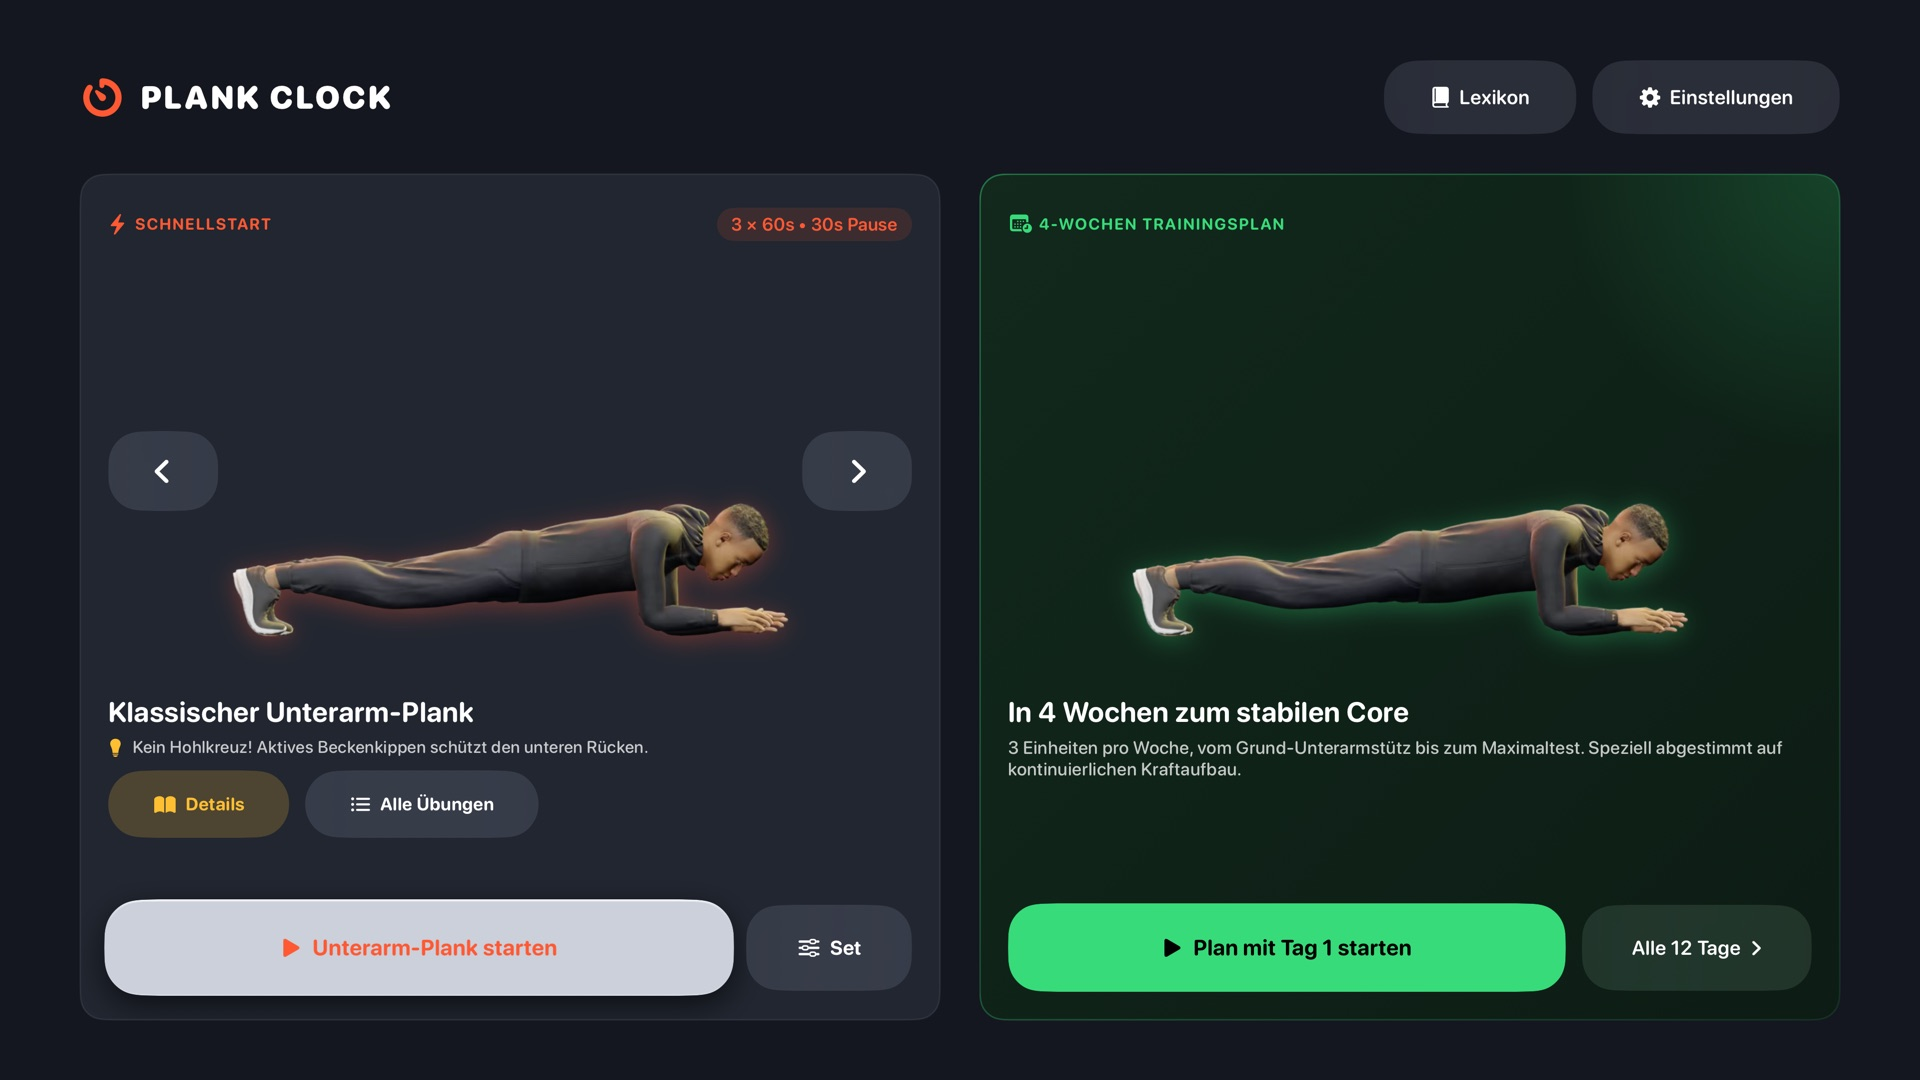
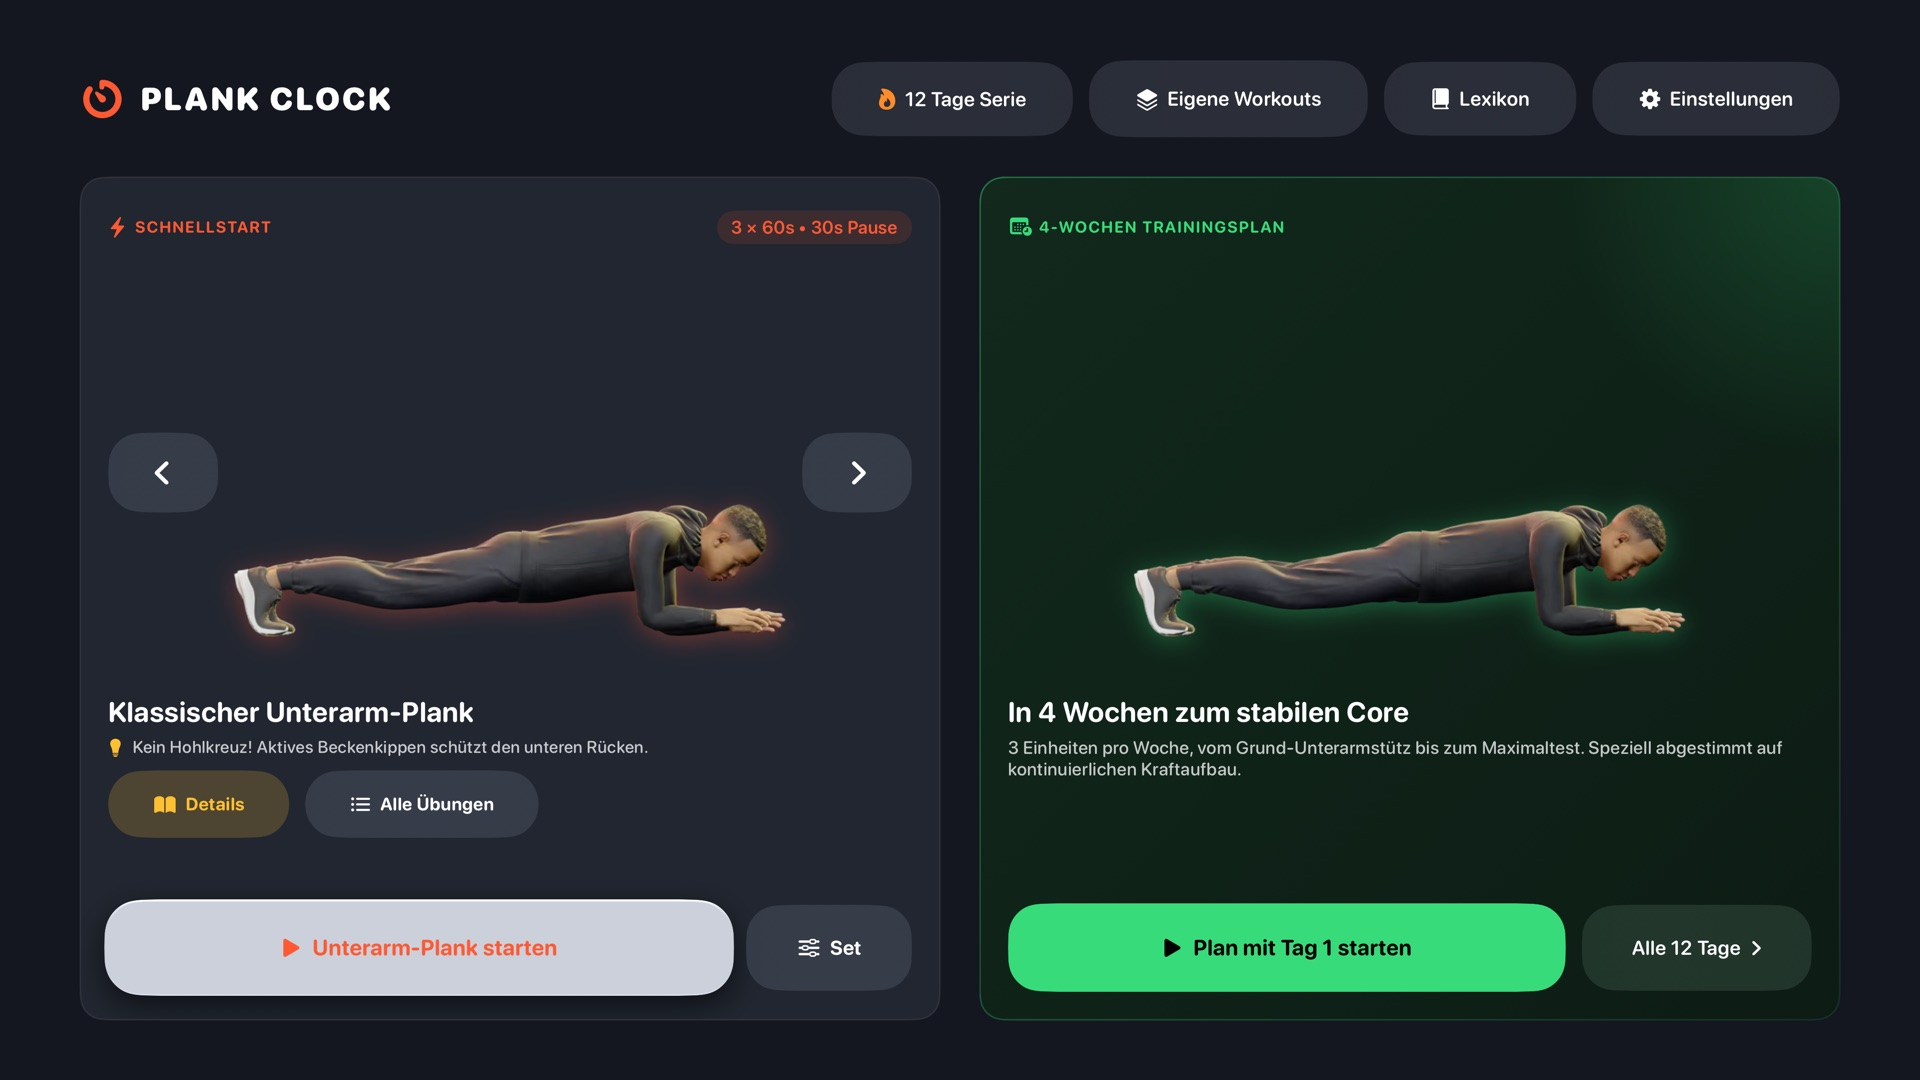
feat(plank-clock): Apple TV 1.2 mit eigenen Workouts und Serie; Datenschutz ergänzt
- Apple-TV-Abschnitt: sechs neue Screenshots (Startseite, Workout, eigene
  Workouts, Editor, Serie & Badges, Plan) und Feature-Karten für eigene
  Workouts und Serie.
- Datenschutz: eigene Workouts, Serie & Badges und Erinnerungen wie in der
  App beschrieben; Apple TV ohne Erinnerungen. Stand November 2026.

diff --git a/plank-clock.html b/plank-clock.html
@@ -157,7 +157,7 @@
   <section id="apple-tv" class="section">
     <div class="container">
       <div class="section-header">
-        <div class="badge badge-orange">Neu: Plank Clock für Apple TV</div>
+        <div class="badge badge-orange">Plank Clock für Apple TV</div>
         <h2>Plank Clock auf dem großen Bildschirm</h2>
         <p>Die native Apple-TV-App bringt Countdown, 3D-Übungsfigur und Musik auf den Fernseher – du liegst auf der Matte und hast alles im Blick. Gesteuert wird mit der <strong>Siri Remote</strong>.</p>
       </div>
@@ -165,27 +165,39 @@
       <div class="screenshots-gallery-grid" style="grid-template-columns: repeat(auto-fit, minmax(min(100%, 420px), 1fr)); gap: 1.5rem;">
         <div class="screenshot-gallery-item orange-hover">
           <div class="screenshot-img-box" style="height: auto; aspect-ratio: 16 / 9;">
-            <img src="images/plank-clock-tv-home.jpg" alt="Plank Clock auf Apple TV: Startseite mit Schnellstart und 4-Wochen-Trainingsplan" loading="lazy">
+            <img src="images/plank-clock-tv-home.jpg?v=2" alt="Plank Clock auf Apple TV: Startseite mit Serie, eigenen Workouts, Schnellstart und 4-Wochen-Plan" loading="lazy">
           </div>
-          <div class="screenshot-caption">📺 Startseite: Schnellstart und 4-Wochen-Plan nebeneinander</div>
+          <div class="screenshot-caption">📺 Startseite: Schnellstart, 4-Wochen-Plan und deine Serie</div>
         </div>
         <div class="screenshot-gallery-item orange-hover">
           <div class="screenshot-img-box" style="height: auto; aspect-ratio: 16 / 9;">
-            <img src="images/plank-clock-tv-workout.jpg" alt="Plank Clock auf Apple TV: laufendes Workout mit großem Countdown-Ring und 3D-Figur" loading="lazy">
+            <img src="images/plank-clock-tv-workout.jpg?v=2" alt="Plank Clock auf Apple TV: laufendes eigenes Workout mit großem Countdown-Ring und 3D-Figur" loading="lazy">
           </div>
           <div class="screenshot-caption">🔥 Workout: großer Countdown, gut lesbar von der Matte</div>
         </div>
-        <div class="screenshot-gallery-item orange-hover" style="border-color: rgba(16, 185, 129, 0.4);">
+        <div class="screenshot-gallery-item orange-hover">
           <div class="screenshot-img-box" style="height: auto; aspect-ratio: 16 / 9;">
-            <img src="images/plank-clock-tv-plan.jpg" alt="Plank Clock auf Apple TV: alle 12 Einheiten des 4-Wochen-Plans" loading="lazy">
+            <img src="images/plank-clock-tv-custom.jpg?v=2" alt="Plank Clock auf Apple TV: Übersicht der eigenen Workouts" loading="lazy">
           </div>
-          <div class="screenshot-caption">📅 Alle 12 Einheiten des Plans auf einen Blick</div>
+          <div class="screenshot-caption">🧩 Eigene Workouts: deine Vorlagen auf einen Blick</div>
         </div>
         <div class="screenshot-gallery-item orange-hover">
           <div class="screenshot-img-box" style="height: auto; aspect-ratio: 16 / 9;">
-            <img src="images/plank-clock-tv-detail.jpg" alt="Plank Clock auf Apple TV: Übungsdetails mit Zielmuskulatur und Coach-Tipp" loading="lazy">
+            <img src="images/plank-clock-tv-editor.jpg?v=2" alt="Plank Clock auf Apple TV: Workout-Editor mit Übungen, Halte- und Pausenzeiten" loading="lazy">
           </div>
-          <div class="screenshot-caption">📖 Übungs-Check mit Zielmuskulatur und Coach-Tipp</div>
+          <div class="screenshot-caption">✏ Editor: Übungen, Zeiten und Runden mit der Siri Remote</div>
+        </div>
+        <div class="screenshot-gallery-item orange-hover">
+          <div class="screenshot-img-box" style="height: auto; aspect-ratio: 16 / 9;">
+            <img src="images/plank-clock-tv-streak.jpg?v=2" alt="Plank Clock auf Apple TV: Serie und Badges" loading="lazy">
+          </div>
+          <div class="screenshot-caption">🏅 Serie & Badges: dranbleiben wird belohnt</div>
+        </div>
+        <div class="screenshot-gallery-item orange-hover" style="border-color: rgba(16, 185, 129, 0.4);">
+          <div class="screenshot-img-box" style="height: auto; aspect-ratio: 16 / 9;">
+            <img src="images/plank-clock-tv-plan.jpg?v=2" alt="Plank Clock auf Apple TV: alle 12 Einheiten des 4-Wochen-Plans" loading="lazy">
+          </div>
+          <div class="screenshot-caption">📅 Alle 12 Einheiten des Plans auf einen Blick</div>
         </div>
       </div>
 
@@ -199,6 +211,22 @@
         </div>
         <div class="feature-card orange-hover">
           <div class="feature-icon orange">
+            <svg viewBox="0 0 24 24" fill="none" stroke="currentColor" stroke-width="2"><polygon points="12 2 2 7 12 12 22 7 12 2"></polygon><polyline points="2 17 12 22 22 17"></polyline><polyline points="2 12 12 17 22 12"></polyline></svg>
+          </div>
+          <div class="badge badge-green" style="margin-bottom: 0.75rem;">Neu in Version 1.2</div>
+          <h3>Eigene Workouts</h3>
+          <p>Stell dir aus den Plank-Übungen dein eigenes Workout zusammen: jede Übung mit eigener Halte- und Pausenzeit und mehreren Runden. In der Pause sagt der Coach die <strong>nächste Übung</strong> an.</p>
+        </div>
+        <div class="feature-card orange-hover">
+          <div class="feature-icon orange">
+            <svg viewBox="0 0 24 24" fill="none" stroke="currentColor" stroke-width="2"><path d="M12 2c1 4 5 6 5 11a5 5 0 0 1-10 0c0-3 2-4 2-7 2 1 3 3 3 5 1-2 1-5 0-9z"></path></svg>
+          </div>
+          <div class="badge badge-green" style="margin-bottom: 0.75rem;">Neu in Version 1.2</div>
+          <h3>Serie & Badges</h3>
+          <p>Ein Workout pro Tag hält deine <strong>Serie</strong> am Laufen, ein Ruhetag pro Woche ist erlaubt. Für 3 bis 365 Tage gibt es <strong>Badges</strong> in Bronze, Silber, Gold und Platin.</p>
+        </div>
+        <div class="feature-card orange-hover">
+          <div class="feature-icon orange">
             <svg viewBox="0 0 24 24" fill="none" stroke="currentColor" stroke-width="2"><rect x="7" y="2" width="10" height="20" rx="5" ry="5"></rect><circle cx="12" cy="8" r="2"></circle><line x1="12" y1="14" x2="12" y2="16"></line></svg>
           </div>
           <h3>Siri Remote</h3>
@@ -209,12 +237,19 @@
             <svg viewBox="0 0 24 24" fill="none" stroke="currentColor" stroke-width="2"><path d="M9 18V5l12-2v13"></path><circle cx="6" cy="18" r="3"></circle><circle cx="18" cy="16" r="3"></circle></svg>
           </div>
           <h3>Apple Music & Voice Coach</h3>
-          <p>Power-Playlist für die Planks, Relax-Playlist für die Pausen – direkt aus <strong>Apple Music</strong>. Der Voice Coach sagt Phasen an, warnt kurz vor Schluss und senkt dafür die Musik kurz ab.</p>
+          <p>Power-Playlist für die Planks, Relax-Playlist für die Pausen – direkt aus <strong>Apple Music</strong>. Der Voice Coach sagt Phasen an, spricht die englischen Übungsnamen richtig aus und senkt dafür kurz die Musik ab.</p>
+        </div>
+        <div class="feature-card orange-hover">
+          <div class="feature-icon orange">
+            <svg viewBox="0 0 24 24" fill="none" stroke="currentColor" stroke-width="2"><rect x="3" y="11" width="18" height="11" rx="2" ry="2"></rect><path d="M7 11V7a5 5 0 0 1 10 0v4"></path></svg>
+          </div>
+          <h3>Ohne Konto & Tracking</h3>
+          <p>Keine Registrierung, keine Werbung, keine Tracker. Einstellungen, eigene Workouts und deine Serie bleiben auf deinem Apple TV.</p>
         </div>
       </div>
 
       <p style="text-align: center; margin-top: 2rem; color: var(--text-secondary);">
-        Die Apple-TV-App ist ab sofort im App Store erhältlich – <a href="https://apps.apple.com/de/app/plank-clock/id6824985916" target="_blank" rel="noopener">Plank Clock im App Store laden</a>.
+        Die Apple-TV-App ist im App Store erhältlich – <a href="https://apps.apple.com/de/app/plank-clock/id6824985916" target="_blank" rel="noopener">Plank Clock im App Store laden</a>. Eigene Workouts und Serie kommen mit Version 1.2, die gerade bei Apple in der Prüfung ist.
       </p>
     </div>
   </section>

diff --git a/datenschutz.html b/datenschutz.html
@@ -46,7 +46,7 @@
     <div class="container">
       <div class="legal-content">
         <h1>Datenschutzerklärung</h1>
-        <p>Stand: Oktober 2026</p>
+        <p>Stand: November 2026</p>
 
         <h2>1. Datenschutz auf einen Blick</h2>
         <h3>Allgemeine Hinweise</h3>
@@ -111,13 +111,16 @@
         </p>
         <ul>
           <li><strong>Ausschließlich lokale Datenspeicherung:</strong> Plank- und Pausendauer, Rundenanzahl, gewählte Playlists und Stimmen, die Health-Option sowie der Fortschritt im 4-Wochen-Plan werden ausschließlich lokal im geschützten App-Speicher abgelegt (Android: SharedPreferences, iOS: UserDefaults). Es gibt keine Benutzerkonten, keine Registrierung und keine Anbindung an externe Server oder Cloud-Datenbanken.</li>
+          <li><strong>Eigene Workouts:</strong> Von Ihnen zusammengestellte Workouts (Name, Übungen, Zeiten und Wiederholungen) werden ebenfalls nur lokal auf dem Gerät gespeichert.</li>
+          <li><strong>Serie &amp; Badges:</strong> Für die Serie speichert die App nur wenige Kennzahlen: den ersten und den letzten Trainingstag der laufenden Serie, den verbrauchten Ruhetag, ob das letzte Workout ein Tag des 4-Wochen-Plans war, Ihren Rekord und erreichte Badges. Ein Verlauf einzelner Workouts wird nicht angelegt.</li>
+          <li><strong>Erinnerungen (Android &amp; iOS, optional):</strong> Die tägliche Erinnerung ist eine lokale Benachrichtigung, die das Gerät selbst zur gewählten Uhrzeit anzeigt. Dafür werden keine Daten an uns oder Dritte übertragen. Die Erlaubnis für Benachrichtigungen können Sie jederzeit in den Systemeinstellungen entziehen.</li>
           <li><strong>Android – Health Connect (nur Schreibzugriff):</strong> Sofern Sie dem Speichern in den App-Einstellungen und im Berechtigungsdialog von Health Connect zustimmen, speichert die App nach einem absolvierten Workout eine Trainingseinheit (Typ <em>Calisthenics</em> mit Start- und Endzeitpunkt) sowie die geschätzten verbrannten Kalorien in Health Connect. Die App fordert <strong>ausschließlich Schreibrechte</strong> an („Training“ und „Verbrannte Kalorien insgesamt“) und liest <strong>zu keinem Zeitpunkt</strong> Gesundheitsdaten aus. Die Daten werden nicht an Werbenetzwerke, Drittanbieter oder eigene Server übertragen. Sie können die Berechtigungen jederzeit in Health Connect widerrufen und die gespeicherten Trainings dort einsehen, exportieren oder löschen.</li>
           <li><strong>iOS – Apple HealthKit (nur Schreibzugriff):</strong> Wie beim Plank Musik Timer werden nach Ihrer Zustimmung ausschließlich Trainingsdauer und geschätzte Aktivitätsenergie als <em>Core-Training</em> an Apple Health übertragen; bestehende Gesundheitsdaten werden nicht ausgelesen.</li>
           <li><strong>Musiksteuerung:</strong> Unter Android steuert die App die gerade laufende Musik-App (z.&nbsp;B. Spotify oder YouTube Music) über die Medientasten des Systems (Abspielen, Pausieren, nächster Titel). Dafür ist keine Berechtigung nötig, und die App hat keinen Zugriff auf Ihre Mediathek oder Wiedergabehistorie. Unter iOS nutzt die App mit Ihrer Genehmigung Apple Music, um Ihre Playlists abzuspielen; Hörgewohnheiten werden weder protokolliert noch weitergeleitet.</li>
           <li><strong>Display &amp; Sperrbildschirm:</strong> Während des Workouts hält die App das Display eingeschaltet. Unter iOS zeigt sie Countdown und Rundenstatus zusätzlich als Live Activity; die Anzeige wird beim Beenden des Workouts entfernt. Unter Android nutzt die App keinen Hintergrunddienst und zeigt keine Benachrichtigungen.</li>
           <li><strong>Sprachansagen:</strong> Die Ansagen des Voice Coach erzeugt die Sprachausgabe Ihres Geräts; die App sendet dafür keine Daten an uns.</li>
           <li><strong>Kamera (KI-Kamera-Coach, optional):</strong> Nur wenn Sie den KI-Kamera-Coach einschalten, nutzt die App nach Ihrer Zustimmung die Kamera, um Ihre Körperhaltung während des Planks zu erkennen. Die Erkennung läuft ausschließlich auf Ihrem Gerät (iOS: Apple Vision, Android: Google ML Kit mit eingebautem Modell). Kamerabilder werden nur kurzzeitig im Arbeitsspeicher verarbeitet und weder gespeichert noch übertragen. Google ML Kit kann laut Google technische Diagnosedaten (z.&nbsp;B. Gerätetyp, App-Version und Laufzeit der Erkennung) an Google senden, jedoch keine Kamerabilder. Die Berechtigung können Sie jederzeit in den Systemeinstellungen entziehen.</li>
-          <li><strong>Apple TV:</strong> Die Apple-TV-App speichert Einstellungen, Playlist-Auswahl und Plan-Fortschritt ebenfalls nur lokal (UserDefaults). Sie nutzt mit Ihrer Genehmigung Apple Music, um Ihre Playlists abzuspielen, sowie die Sprachausgabe des Apple TV für den Voice Coach. Kamera, Apple Health und Live Activity werden auf dem Apple TV nicht verwendet.</li>
+          <li><strong>Apple TV:</strong> Die Apple-TV-App speichert Einstellungen, Playlist-Auswahl, Plan-Fortschritt, eigene Workouts und die Kennzahlen der Serie ebenfalls nur lokal (UserDefaults). Erinnerungen gibt es auf dem Apple TV nicht. Sie nutzt mit Ihrer Genehmigung Apple Music, um Ihre Playlists abzuspielen, sowie die Sprachausgabe des Apple TV für den Voice Coach. Kamera, Apple Health und Live Activity werden auf dem Apple TV nicht verwendet.</li>
           <li><strong>Kein Tracking, keine Analyse-Tools &amp; keine Werbung:</strong> Die App enthält keine Werbung, keine Tracking-Bibliotheken und keine Drittanbieter-SDKs zur Analyse des Nutzerverhaltens. Durch das Löschen der App werden alle lokal gespeicherten Einstellungen entfernt.</li>
         </ul>
 
